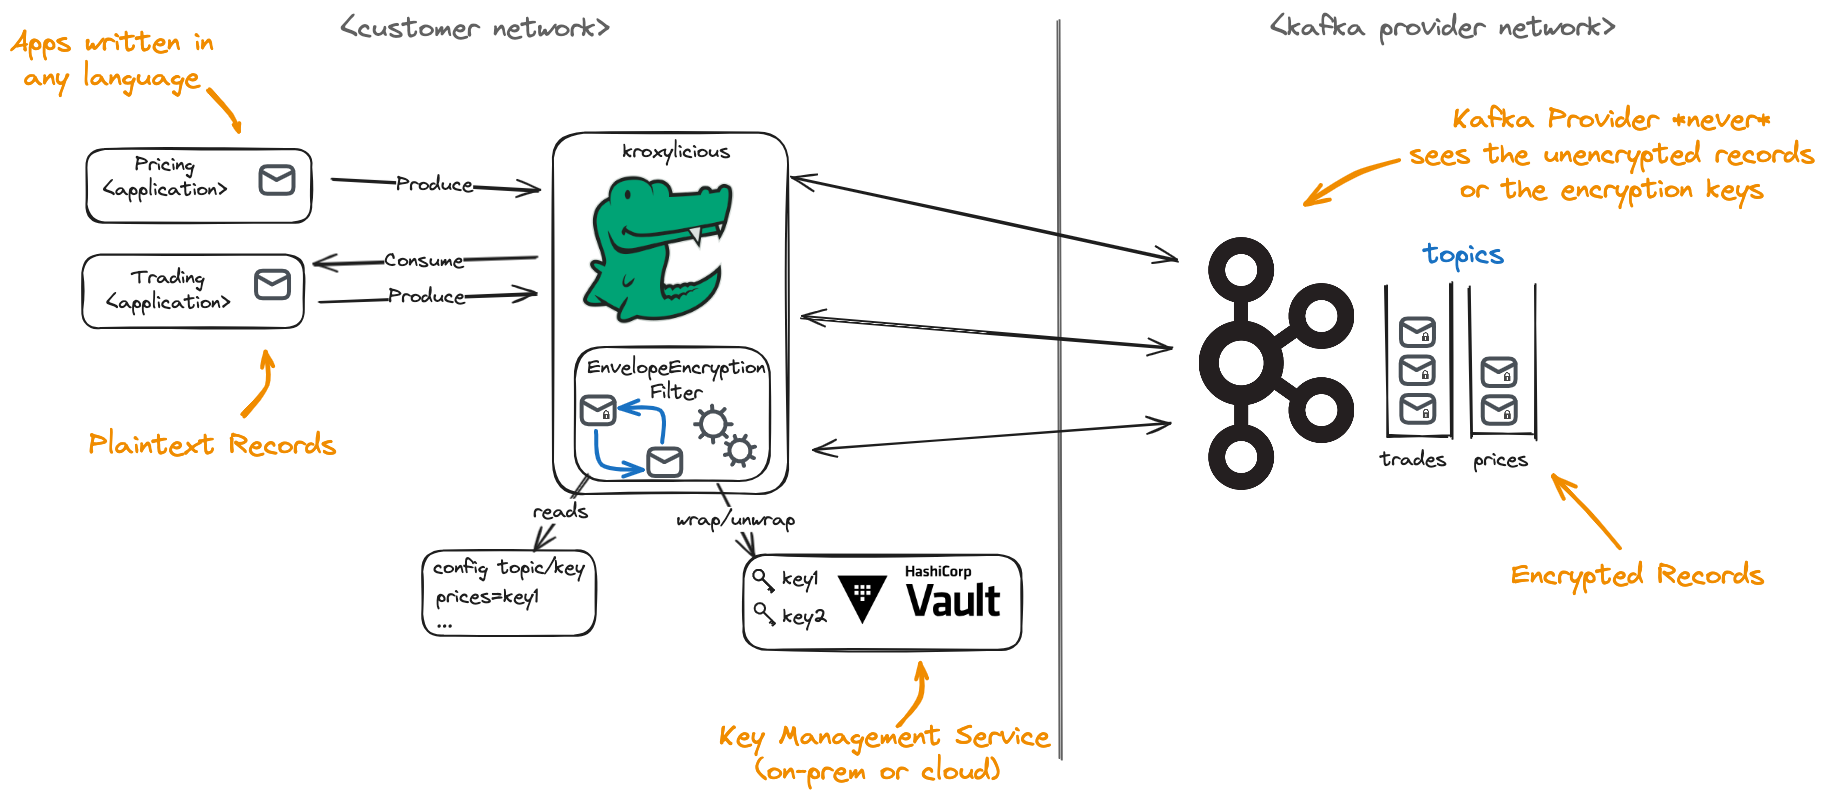
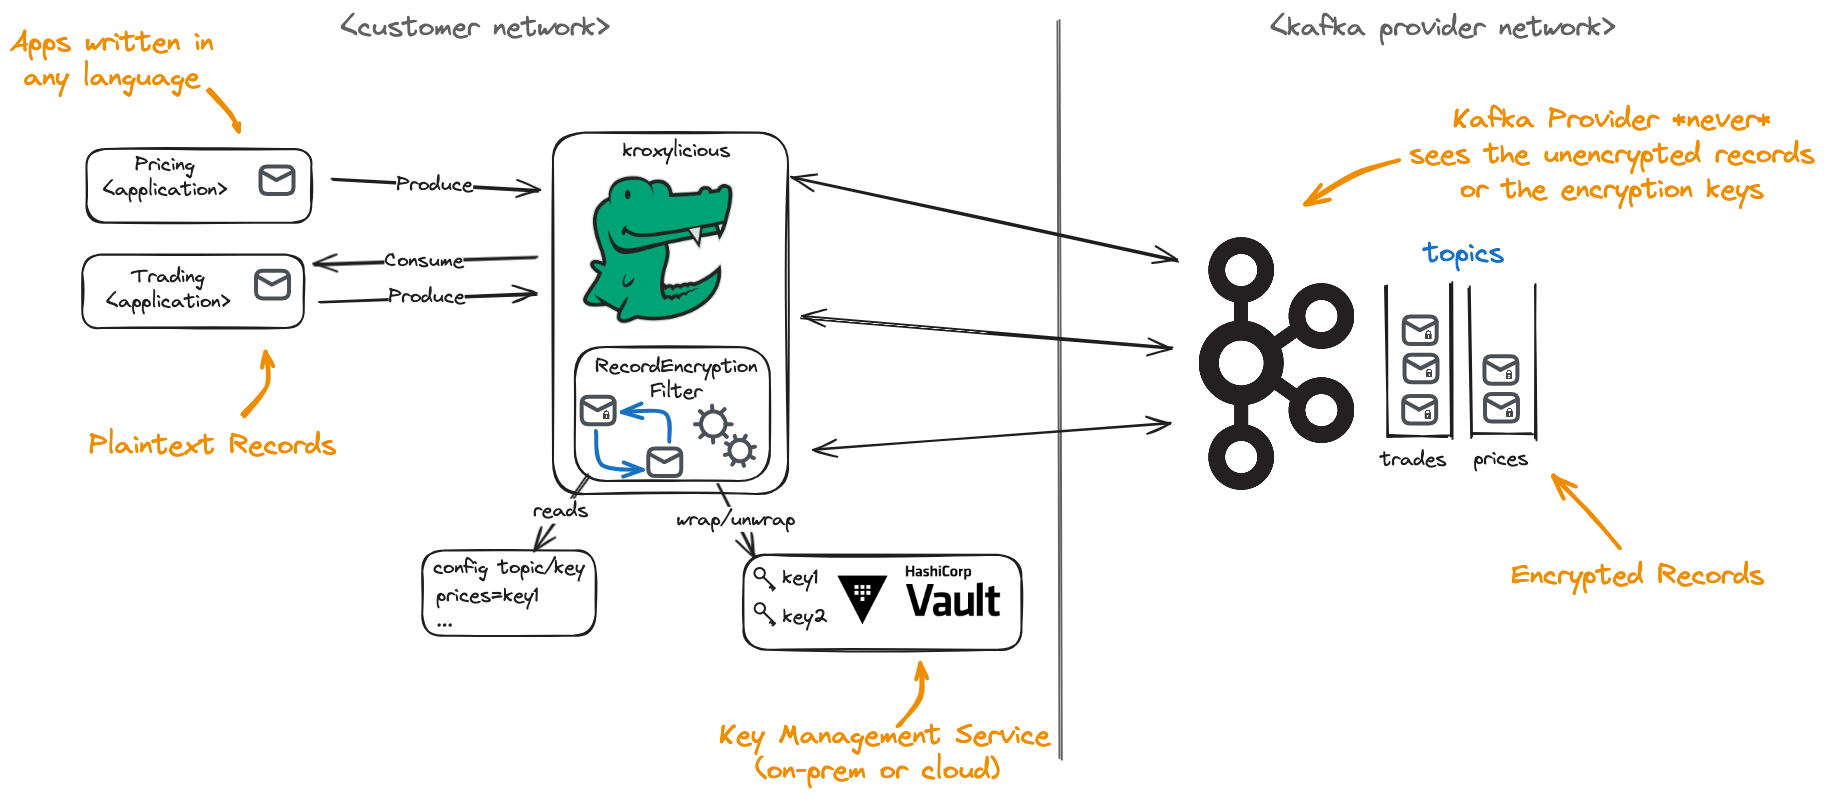
Rerendered the encryption-at-rest_solution diagram to include the envelope->record rename.
(also fixed up a couple of white backgrounds (envelope + gear icons) that showed up when view in dark mode)

diff --git a/README.md b/README.md
@@ -37,3 +37,9 @@ You can then run the site with this command (don't close the terminal once you'v
 ```bash
 bundle exec jekyll serve
 ```
+
+# Excalidraw images
+
+Some content such as the use-cases include diagrams drawn in Excalidraw.  Browsers can't handle the format natively, so instead, in addition to
+preserving the `.excalidraw` we also export a transparent `.png` for inclusion in the content.
+
